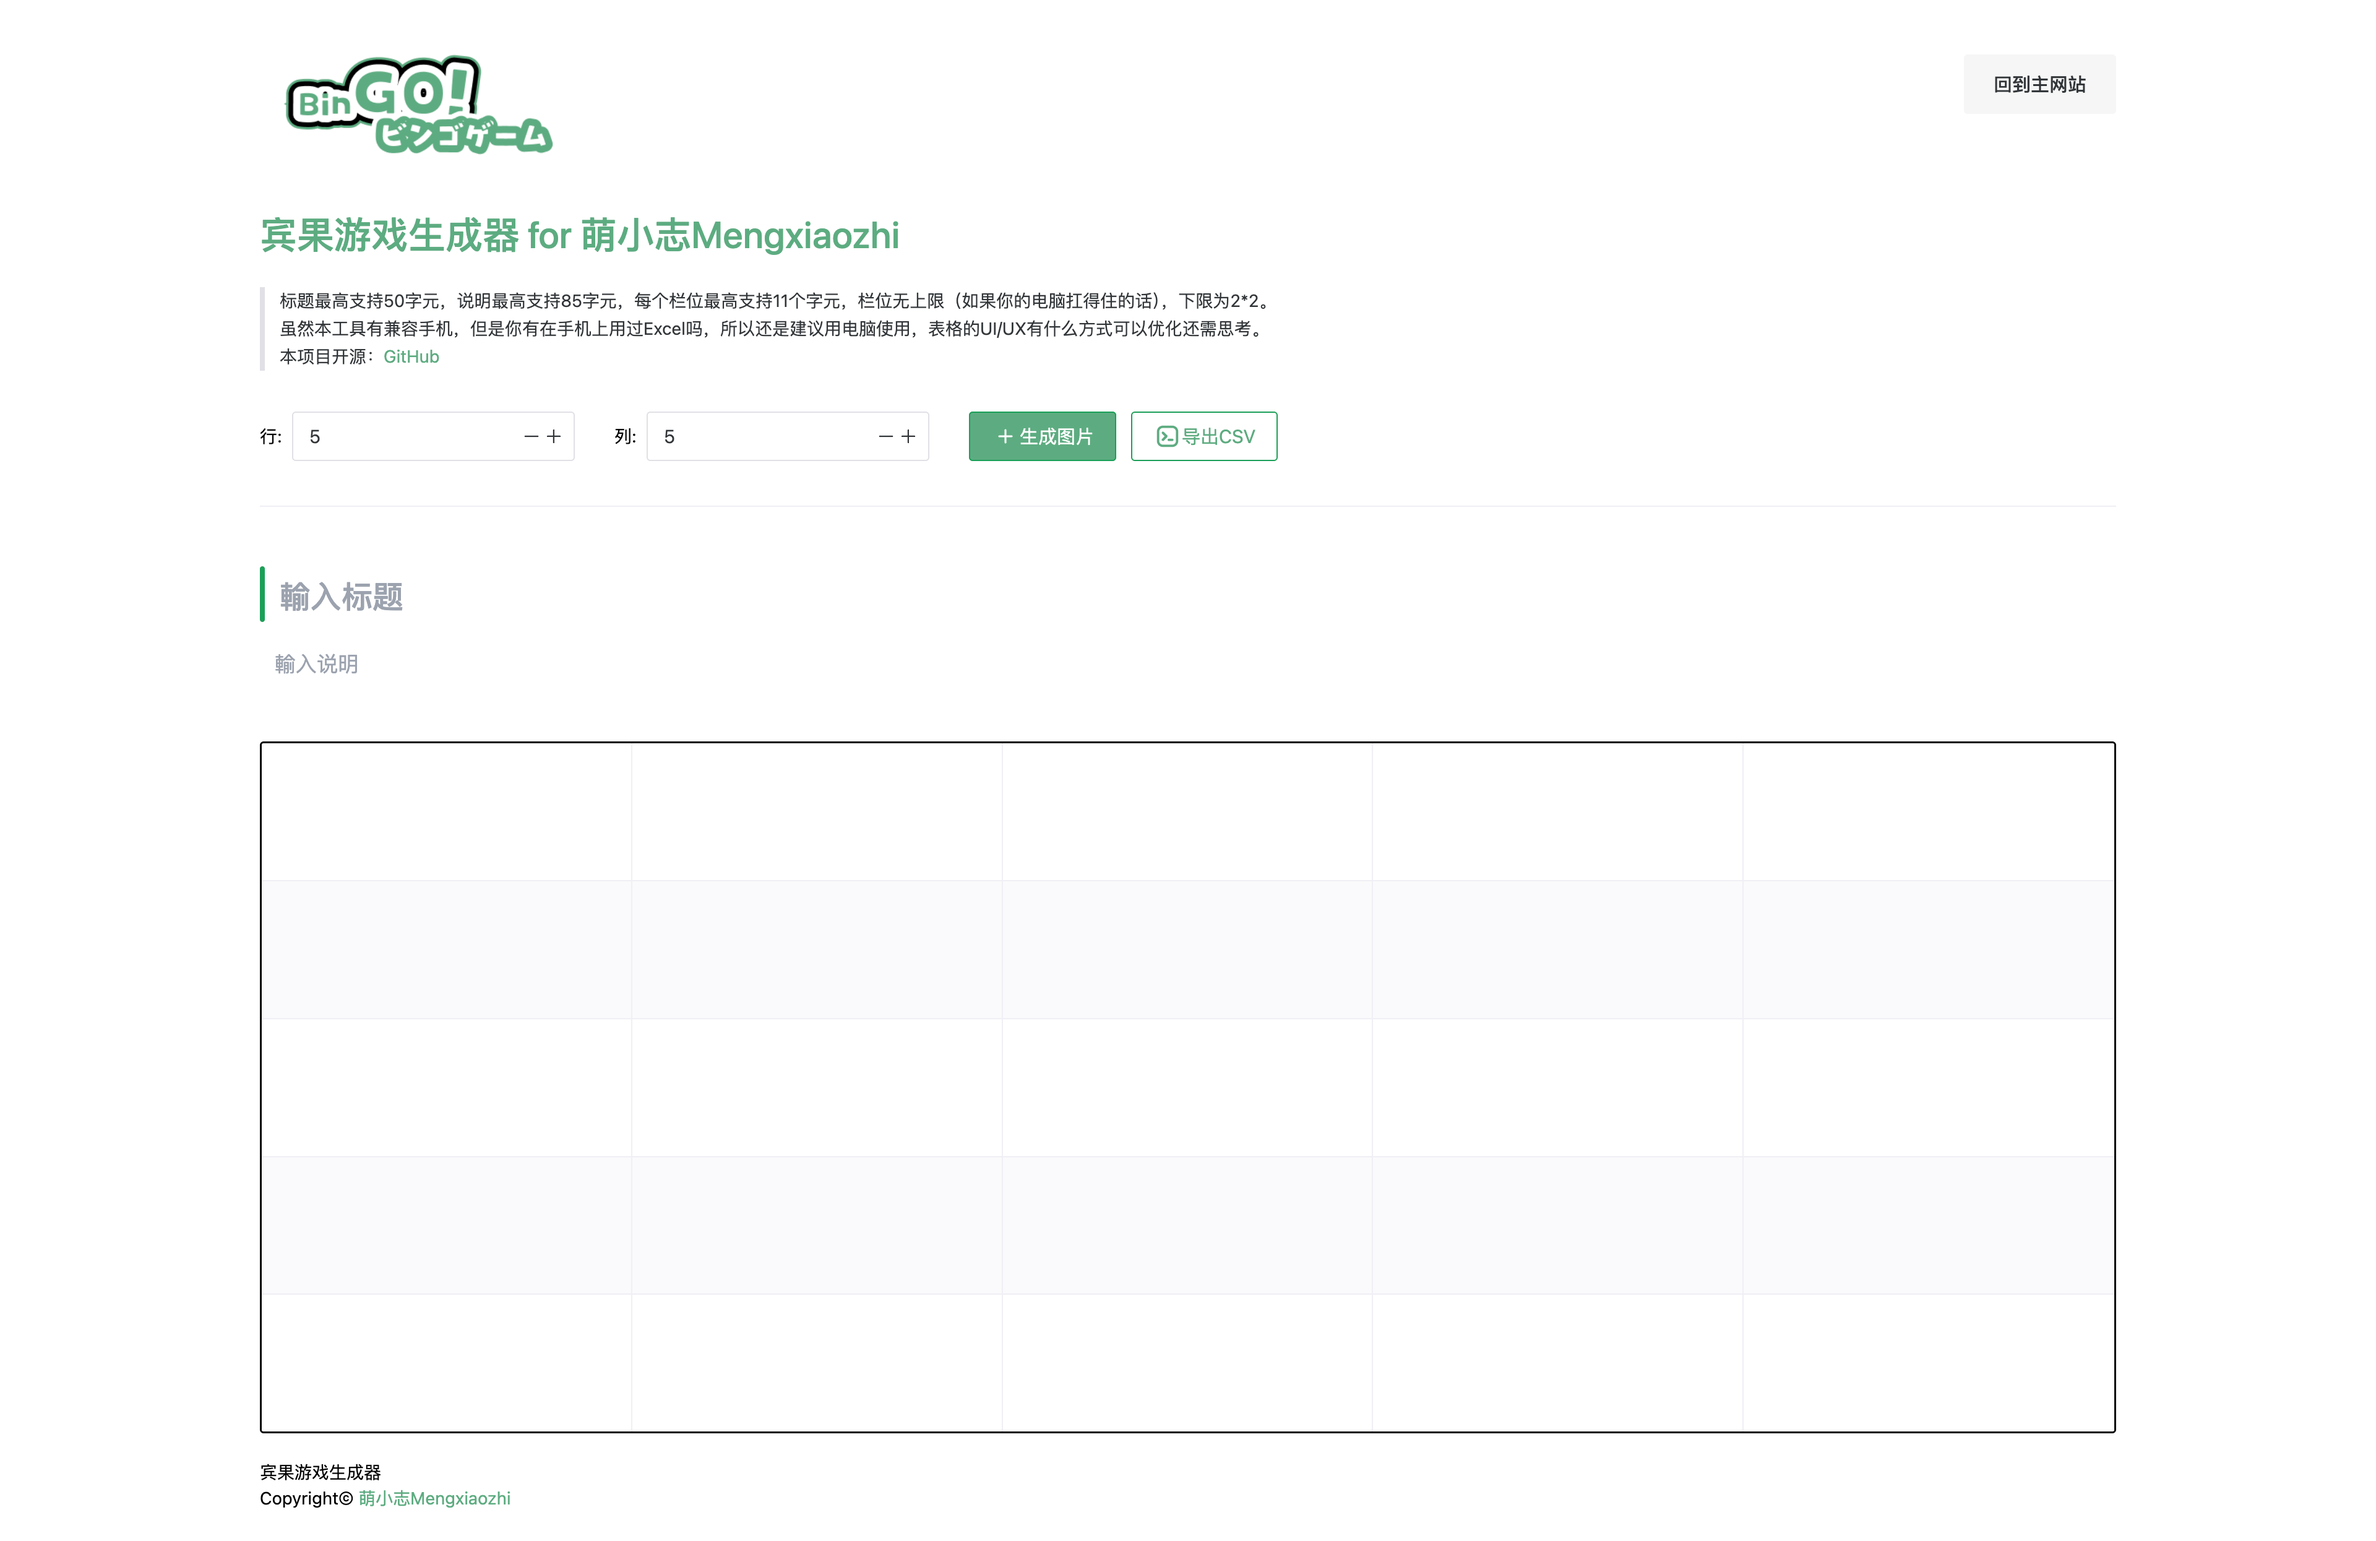
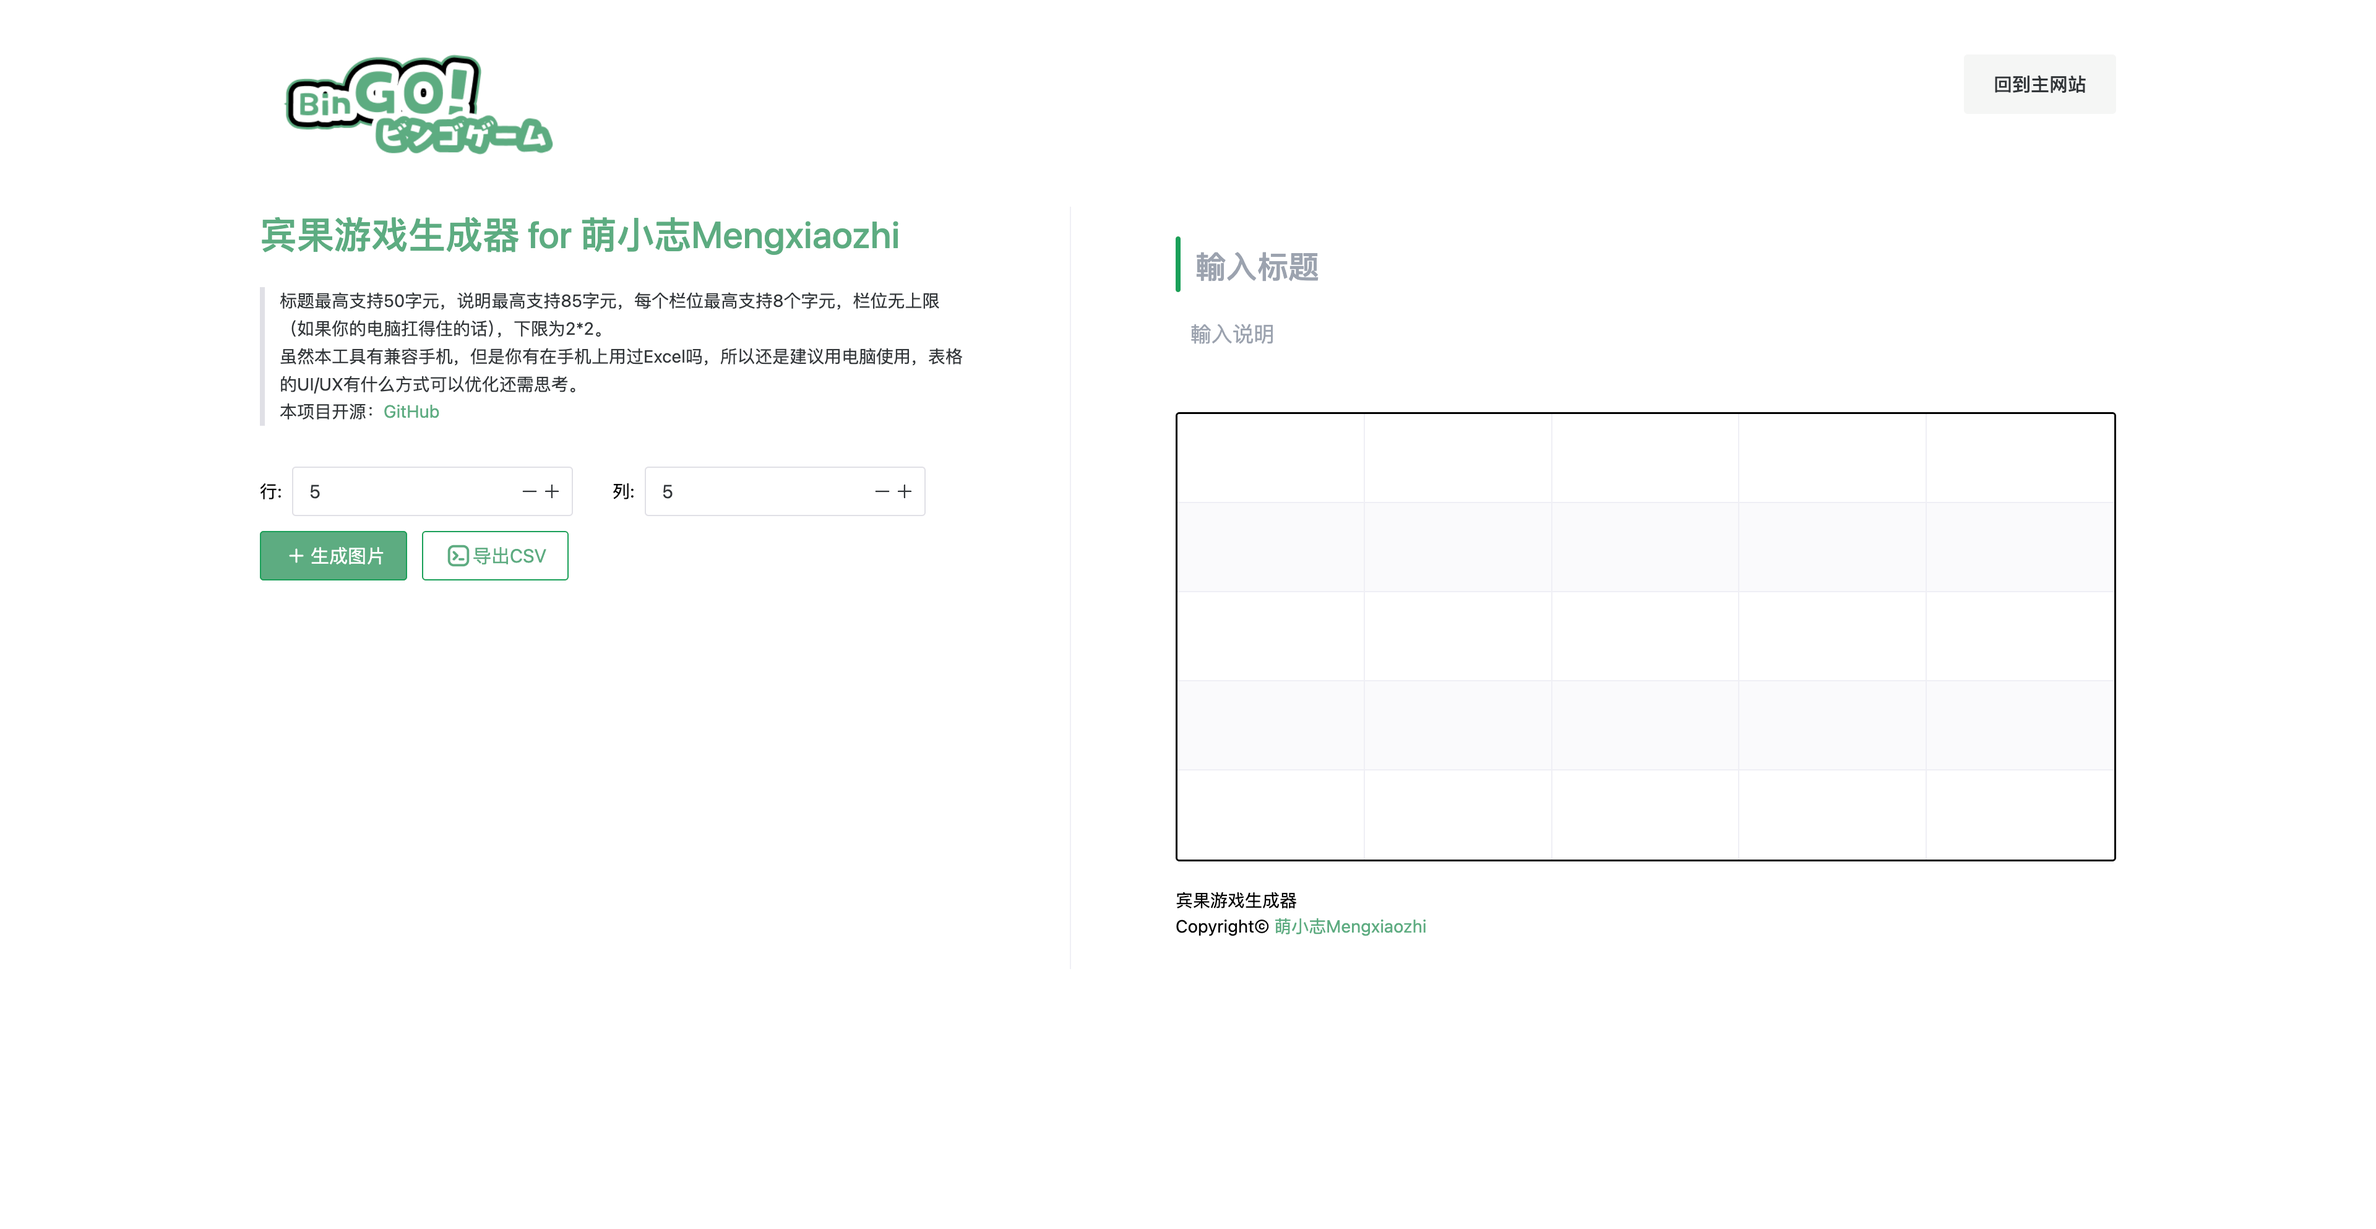
edit update

diff --git a/src/components/Create.vue b/src/components/Create.vue
@@ -10,11 +10,11 @@
     <div v-if="isWideScreen === true" style="width: 570px;">
       <n-h1 class="mt-0">
         <n-text type="primary" class="text-MyColor-Main">
-          宾果游戏生成器 for 萌小志Mengxiaozhi
+          宾果游戏生成器 by萌小志Mengxiaozhi
         </n-text>
       </n-h1>
       <n-blockquote>
-        标题最高支持50字元，说明最高支持85字元，每个栏位最高支持8个字元，栏位无上限（如果你的电脑扛得住的话），下限为2*2。<br>
+        标题最高支持25字元，说明最高支持45字元，每个栏位最高支持18个字元，栏位无上限（如果你的电脑扛得住的话），下限为2*2，双击表格栏位开始编辑。<br>
         虽然本工具有兼容手机，但是你有在手机上用过Excel吗，所以还是建议用电脑使用，表格的UI/UX有什么方式可以优化还需思考。<br>
         本项目开源：<a href="https://github.com/mengxiaozhi/Bingo" class="text-MyColor-Main">GitHub</a>
       </n-blockquote>
@@ -59,11 +59,11 @@
     <div v-else>
       <n-h1 class="mt-0">
         <n-text type="primary" class="text-MyColor-Main">
-          宾果游戏生成器 for 萌小志Mengxiaozhi
+          宾果游戏生成器 by萌小志Mengxiaozhi
         </n-text>
       </n-h1>
       <n-blockquote>
-        标题最高支持50字元，说明最高支持85字元，每个栏位最高支持8个字元，栏位无上限（如果你的电脑扛得住的话），下限为2*2。<br>
+        标题最高支持25字元，说明最高支持45字元，每个栏位最高支持18个字元，栏位无上限（如果你的电脑扛得住的话），下限为2*2，双击表格栏位开始编辑。<br>
         虽然本工具有兼容手机，但是你有在手机上用过Excel吗，所以还是建议用电脑使用，表格的UI/UX有什么方式可以优化还需思考。<br>
         本项目开源：<a href="https://github.com/mengxiaozhi/Bingo" class="text-MyColor-Main">GitHub</a>
       </n-blockquote>
@@ -115,18 +115,26 @@
       <main ref="bingoTable" class="pt-6 pb-6">
         <n-h1 prefix="bar">
           <n-text type="primary">
-            <input class="text-MyColor-Main" maxlength="50" placeholder="輸入标题" style="font-size: 25px"></input>
+            <input v-model="gameName" class="text-MyColor-Main" maxlength="25" placeholder="输入标题"
+              style="font-size: 25px" />
           </n-text>
         </n-h1>
         <n-p class="pl-3">
-          <textarea maxlength="85" placeholder="輸入说明" class="text-black" style="font-size: 17px" />
+          <textarea v-model="content" maxlength="45" placeholder="輸入说明" class="text-black"
+            style="font-size: 17px"></textarea>
         </n-p>
         <n-table :bordered="true" :single-line="false" striped>
           <tbody id="table">
-            <tr v-for="row in rows" :key="row">
-              <td v-for="col in columns" :key="col" style="padding: 0px;">
-                <!--<textarea maxlength="8" class="text-black text-center" />-->
-                <input maxlength="8" class="text-black text-center" type="text">
+            <tr v-for="(row, rowIndex) in rows" :key="rowIndex">
+              <td v-for="(col, colIndex) in columns" :key="colIndex" style="padding:0">
+                <template v-if="editMode[rowIndex][colIndex]">
+                  <textarea v-model="tableData[rowIndex][colIndex]" maxlength="18" class="text-black text-center"
+                    type="text" @blur="toggleEditMode(rowIndex, colIndex)" />
+                </template>
+                <template v-else>
+                  <p class="text-black text-center table_p" @click="toggleEditMode(rowIndex, colIndex)">{{
+                    tableData[rowIndex][colIndex] || '' }}</p>
+                </template>
               </td>
             </tr>
           </tbody>
@@ -143,18 +151,26 @@
       <main ref="bingoTable" class="pt-6 pb-6">
         <n-h1 prefix="bar">
           <n-text type="primary">
-            <input class="text-MyColor-Main" maxlength="50" placeholder="輸入标题" style="font-size: 25px"></input>
+            <input v-model="gameName" class="text-MyColor-Main" maxlength="25" placeholder="输入标题"
+              style="font-size: 25px" />
           </n-text>
         </n-h1>
         <n-p class="pl-3">
-          <textarea maxlength="85" placeholder="輸入说明" class="text-black" style="font-size: 17px" />
+          <textarea v-model="content" maxlength="45" placeholder="輸入说明" class="text-black"
+            style="font-size: 17px"></textarea>
         </n-p>
         <n-table :bordered="true" :single-line="false" striped>
           <tbody id="table">
-            <tr v-for="row in rows" :key="row">
-              <td v-for="col in columns" :key="col" style="padding: 0px;">
-                <!--<textarea maxlength="8" class="text-black text-center" />-->
-                <input maxlength="8" class="text-black text-center" type="text">
+            <tr v-for="(row, rowIndex) in rows" :key="rowIndex">
+              <td v-for="(col, colIndex) in columns" :key="colIndex" style="padding:0">
+                <template v-if="editMode[rowIndex][colIndex]">
+                  <textarea v-model="tableData[rowIndex][colIndex]" maxlength="18" class="text-black text-center"
+                    type="text" @blur="toggleEditMode(rowIndex, colIndex)" />
+                </template>
+                <template v-else>
+                  <p class="text-black text-center table_p" @click="toggleEditMode(rowIndex, colIndex)">{{
+                    tableData[rowIndex][colIndex] || '' }}</p>
+                </template>
               </td>
             </tr>
           </tbody>
@@ -171,7 +187,7 @@
 </template>
 
 <script>
-  import { nextTick, ref, onMounted, onBeforeUnmount } from 'vue';
+  import { nextTick, ref, onMounted, onBeforeUnmount, watch } from 'vue';
   import html2canvas from 'html2canvas';
   import { NButton, NInputNumber, NIcon, NDivider, NTable, NImage, NText, NBlockquote, NH1, NP } from 'naive-ui';
 
@@ -196,14 +212,27 @@
       const bingoTable = ref(null); // 定义 ref 对象
       const scrollContainer = ref(null); //平滑滑动
       const isWideScreen = ref(window.innerWidth > 1024); //判断屏幕大小,布林值
+      const tableData = ref(Array.from({ length: rows.value }, () => Array(columns.value).fill('')));// 表格数据
+      const editMode = ref(Array.from({ length: rows.value }, () => Array(columns.value).fill(false)));// 编辑模式状态
+
+      // 监听 rows 和 columns 变化
+      watch([rows, columns], ([newRows, newColumns]) => {
+        tableData.value = Array.from({ length: newRows }, () => Array(newColumns).fill(''));
+        editMode.value = Array.from({ length: newRows }, () => Array(newColumns).fill(false));
+      });
 
       // 更新屏幕宽度状态
       const updateScreenWidth = () => {
         isWideScreen.value = window.innerWidth > 1024;
       };
 
+      // 切换编辑模式
+      const toggleEditMode = (rowIndex, colIndex) => {
+        editMode.value[rowIndex][colIndex] = !editMode.value[rowIndex][colIndex];
+      };
+
       onMounted(() => {
-         //平滑滑动
+        //平滑滑动
         if (scrollContainer.value) {
           // 设置 Lenis 实例的容器
           const lenis = this.$lenis;
@@ -246,11 +275,10 @@
           // 设置固定字体大小
           const style = document.createElement('style');
           style.textContent = `
-            #table input {
-              font-size: 17px !important;
-              height: 50% !important;
-            }
-          `;
+        #table p {
+          font-size: 23px !important;
+        }
+      `;
           clonedTable.appendChild(style);
 
           // 获取元素尺寸
@@ -289,7 +317,7 @@
 
           table.querySelectorAll('tr').forEach(row => {
             const rowData = Array.from(row.querySelectorAll('td')).map(cell =>
-              `"${cell.querySelector('textarea').value.replace(/"/g, '""')}"`
+              `"${cell.querySelector('p').textContent.replace(/"/g, '""')}"`
             ).join(',');
             csvContent += rowData + '\r\n';
           });
@@ -310,13 +338,74 @@
         }
       };
 
-      return { gameName, content, rows, columns, saveAsImage, exportAsCSV, bingoTable, scrollContainer, isWideScreen };
+      return { gameName, content, rows, columns, saveAsImage, exportAsCSV, bingoTable, scrollContainer, isWideScreen, tableData, editMode, toggleEditMode };
     }
   };
 </script>
 
 <style scoped>
-  input {
+  /*input {
+  height: 100%;
+  width: 100%;
+  border: 0;
+  outline-color: #5DAC81;
+}
+
+textarea {
+  background-color: rgba(240, 248, 255, 0);
+  border: 0;
+  resize: none;
+  outline-color: #5DAC81;
+  height: 100%;
+  width: 100%;
+}
+
+#table textarea {
+  background-color: rgba(240, 248, 255, 0);
+  border: 0;
+  resize: none;
+  font-size: 1em;
+  outline-color: #5DAC81;
+  height: 50%;
+  width: 100%;
+}
+
+#table textarea:focus {
+  height: 100%;
+  width: 100%;
+}
+
+#table input {
+  background-color: rgba(240, 248, 255, 0);
+  border: 0;
+  resize: none;
+  font-size: 17px;
+  outline-color: #5DAC81;
+  height: 100%;
+  width: 100%;
+}
+
+td {
+  height: 72px;
+  width: 72px;
+}
+
+@media (max-width: 1024px) {
+  #table textarea {
+    font-size: 13px;
+  }
+  #table input {
+    font-size: 13px;
+  }
+}
+
+.n-table.n-table--bordered {
+  border: 1.7px solid #000;
+  border-radius: 3px;
+}*/
+
+  input,
+  textarea {
     height: 100%;
     width: 100%;
     border: 0;
@@ -325,49 +414,34 @@
 
   textarea {
     background-color: rgba(240, 248, 255, 0);
-    border: 0;
     resize: none;
-    outline-color: #5DAC81;
-    height: 100%;
-    width: 100%;
   }
 
-  /* #table textarea {
-    background-color: rgba(240, 248, 255, 0);
-    border: 0;
-    resize: none;
-    font-size: 1em;
-    outline-color: #5DAC81;
-    height: 50%;
-    width: 100%;
+  #table textarea {
+    font-size: 23px;
   }
 
-  #table textarea:focus {
+  .table_p {
+    margin: 0;
+    padding: 0;
     height: 100%;
     width: 100%;
-  }*/
-
-  #table input {
-    background-color: rgba(240, 248, 255, 0);
-    border: 0;
-    resize: none;
-    font-size: 17px;
-    outline-color: #5DAC81;
-    height: 100%;
-    width: 100%;
+    font-size: 23px;
+    text-align: center;
   }
 
   td {
-    height: 72px;
-    width: 72px;
+    height: 147.41px;
+    width: 147.41px;
   }
 
   @media (max-width: 1024px) {
-    /*#table textarea {
-      font-size: 13px;
-    }*/
-    #table input {
-      font-size: 13px;
+    #table textarea {
+      font-size: 17px;
+    }
+
+    .table_p {
+      font-size: 17px;
     }
   }
 
